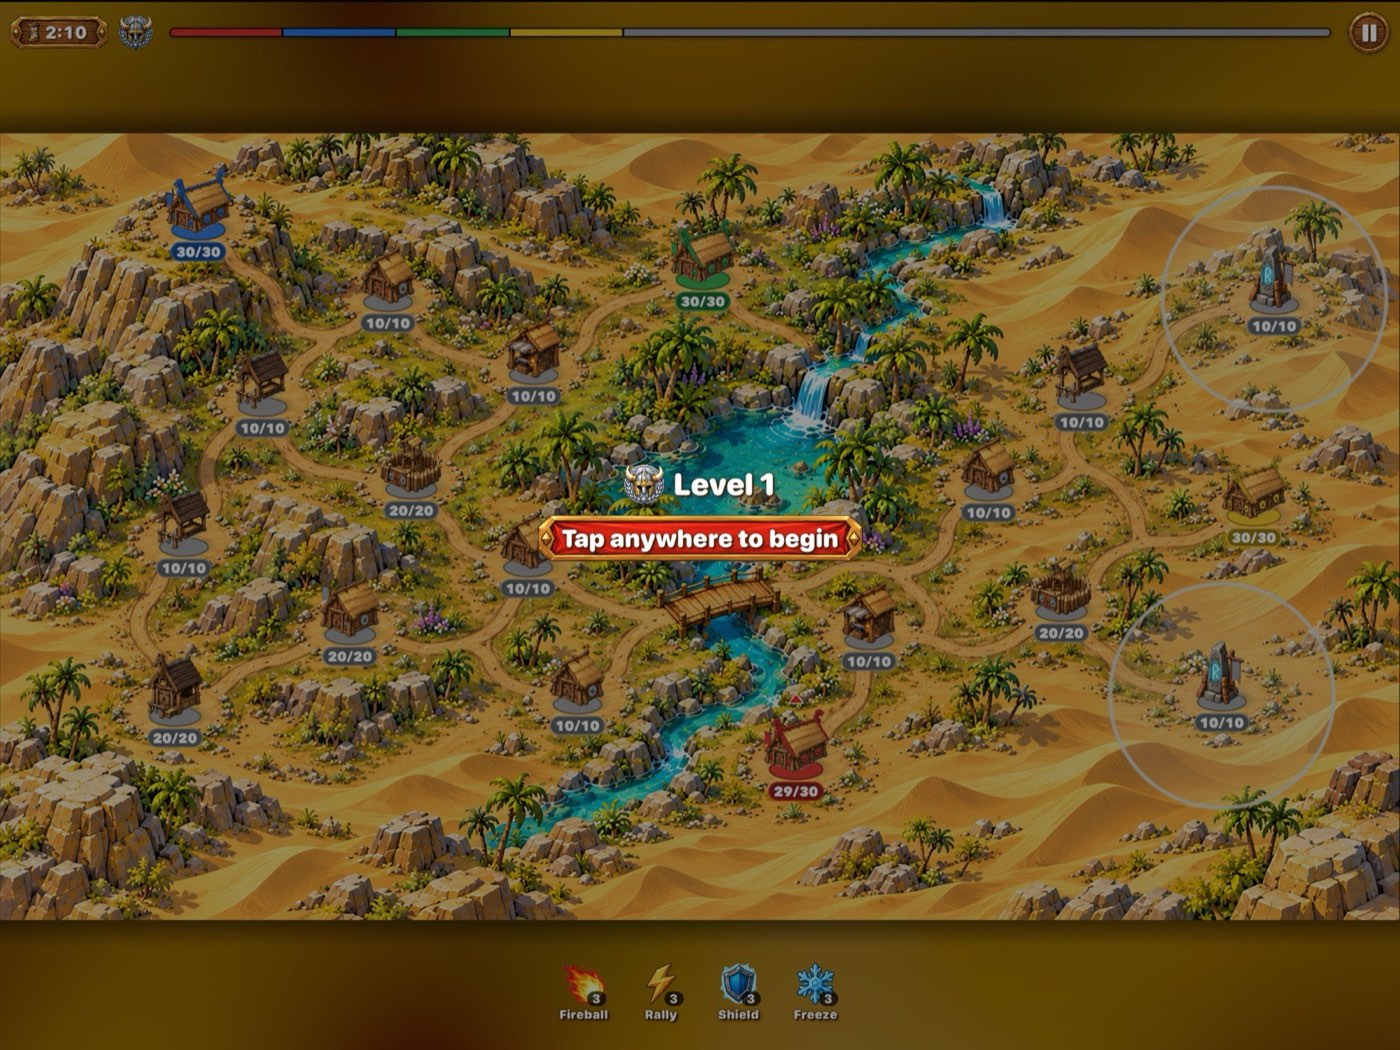
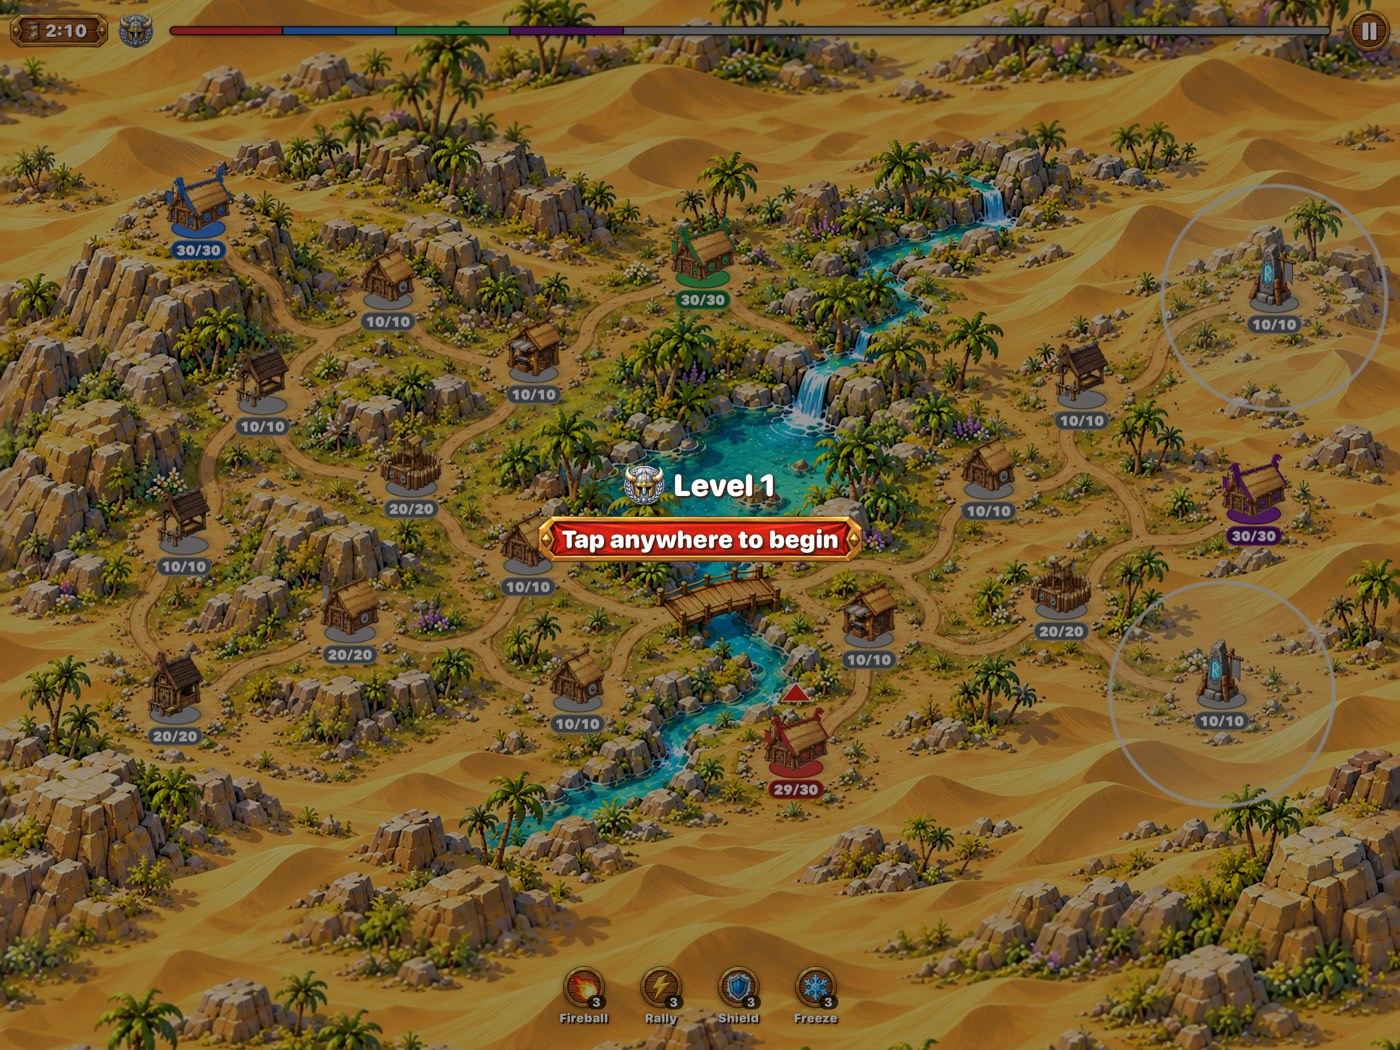
New edge-to-edge battle screenshots; purple replaces yellow
Emberpeak 8, Greenwood 9, and Sunscorch 1 retaken on the iPad Pro 13 simulator and
Coral 6 on the iPhone 17 Pro Max simulator, showing the outpainted maps that fill the
screen and the purple rival. Rival colors in the game page and How to Play now say purple.

diff --git a/pages/rally-the-realm/index.html b/pages/rally-the-realm/index.html
@@ -18,7 +18,7 @@ layout: rtr
         <div>
           <h2>Tap. Send. Conquer.</h2>
           <p>Every level is a hand-painted map dotted with buildings and joined by winding roads. Your buildings are red. Each one grows little Vikings. Tap one of yours, tap a target, and half your troops march out to take it.</p>
-          <p>Three rival clans, blue, green, and yellow, want the same land. Capture their buildings, defend your own, and be the last clan standing. Battles take a few minutes, so there is always time for one more.</p>
+          <p>Three rival clans, blue, green, and purple, want the same land. Capture their buildings, defend your own, and be the last clan standing. Battles take a few minutes, so there is always time for one more.</p>
         </div>
         <img class="mascot" src="/assets/img/rtr/ui/mascot_cheer.png" alt="A cheering red Viking with a flag" width="180" height="251">
       </div>
@@ -41,12 +41,12 @@ layout: rtr
   <div class="rtr-wrap">
     <h2>See it in action</h2>
     <div class="shots">
-      <figure class="wide"><div class="frame"><img src="/assets/img/rtr/shots/battle_ember.jpg" alt="A battle on Emberpeak, a volcanic world, with red, blue, green, and yellow buildings" loading="lazy" width="1400" height="1050"></div><figcaption>Fight across lava and stone bridges in Emberpeak.</figcaption></figure>
+      <figure class="wide"><div class="frame"><img src="/assets/img/rtr/shots/battle_ember.jpg" alt="A battle on Emberpeak, a volcanic world, with red, blue, green, and purple buildings" loading="lazy" width="1400" height="1050"></div><figcaption>Fight across lava and stone bridges in Emberpeak.</figcaption></figure>
       <figure><div class="frame"><img src="/assets/img/rtr/shots/worldmap.jpg" alt="The Greenwood world map with nine level tiles" loading="lazy" width="1400" height="1050"></div><figcaption>Nine levels in every world, one star per rank.</figcaption></figure>
       <figure><div class="frame"><img src="/assets/img/rtr/shots/battle_g9.jpg" alt="A forest battle in Greenwood with rune towers and their range circles" loading="lazy" width="1400" height="1050"></div><figcaption>Rune towers shoot any enemy in their circle.</figcaption></figure>
       <figure><div class="frame"><img src="/assets/img/rtr/shots/trophies.jpg" alt="The Trophy Hall with locked trophies" loading="lazy" width="1400" height="1050"></div><figcaption>33 trophies to earn.</figcaption></figure>
       <figure><div class="frame"><img src="/assets/img/rtr/shots/store.jpg" alt="The store with upgrades and spell refills priced in gold" loading="lazy" width="1400" height="1050"></div><figcaption>Spend the gold you win on upgrades and spells.</figcaption></figure>
-      <figure class="wide"><div class="frame"><img src="/assets/img/rtr/shots/iphone_battle.jpg" alt="A battle on Coral Isles on iPhone" loading="lazy" width="1400" height="646"></div><figcaption>Made for iPad, plays great on iPhone too.</figcaption></figure>
+      <figure class="wide"><div class="frame"><img src="/assets/img/rtr/shots/iphone_battle.jpg" alt="A battle on Coral Isles on iPhone" loading="lazy" width="1400" height="644"></div><figcaption>Made for iPad, plays great on iPhone too.</figcaption></figure>
       <figure><div class="frame"><img src="/assets/img/rtr/shots/sunscorch_01.jpg" alt="Sunscorch Dunes level 1 waiting for a tap to begin" loading="lazy" width="1400" height="1050"></div><figcaption>Every level waits for your tap to begin.</figcaption></figure>
     </div>
   </div>

diff --git a/docs/rally-the-realm/index.html b/docs/rally-the-realm/index.html
@@ -48,7 +48,7 @@
         <div>
           <h2>Tap. Send. Conquer.</h2>
           <p>Every level is a hand-painted map dotted with buildings and joined by winding roads. Your buildings are red. Each one grows little Vikings. Tap one of yours, tap a target, and half your troops march out to take it.</p>
-          <p>Three rival clans, blue, green, and yellow, want the same land. Capture their buildings, defend your own, and be the last clan standing. Battles take a few minutes, so there is always time for one more.</p>
+          <p>Three rival clans, blue, green, and purple, want the same land. Capture their buildings, defend your own, and be the last clan standing. Battles take a few minutes, so there is always time for one more.</p>
         </div>
         <img class="mascot" src="/assets/img/rtr/ui/mascot_cheer.png" alt="A cheering red Viking with a flag" width="180" height="251">
       </div>
@@ -71,12 +71,12 @@
   <div class="rtr-wrap">
     <h2>See it in action</h2>
     <div class="shots">
-      <figure class="wide"><div class="frame"><img src="/assets/img/rtr/shots/battle_ember.jpg" alt="A battle on Emberpeak, a volcanic world, with red, blue, green, and yellow buildings" loading="lazy" width="1400" height="1050"></div><figcaption>Fight across lava and stone bridges in Emberpeak.</figcaption></figure>
+      <figure class="wide"><div class="frame"><img src="/assets/img/rtr/shots/battle_ember.jpg" alt="A battle on Emberpeak, a volcanic world, with red, blue, green, and purple buildings" loading="lazy" width="1400" height="1050"></div><figcaption>Fight across lava and stone bridges in Emberpeak.</figcaption></figure>
       <figure><div class="frame"><img src="/assets/img/rtr/shots/worldmap.jpg" alt="The Greenwood world map with nine level tiles" loading="lazy" width="1400" height="1050"></div><figcaption>Nine levels in every world, one star per rank.</figcaption></figure>
       <figure><div class="frame"><img src="/assets/img/rtr/shots/battle_g9.jpg" alt="A forest battle in Greenwood with rune towers and their range circles" loading="lazy" width="1400" height="1050"></div><figcaption>Rune towers shoot any enemy in their circle.</figcaption></figure>
       <figure><div class="frame"><img src="/assets/img/rtr/shots/trophies.jpg" alt="The Trophy Hall with locked trophies" loading="lazy" width="1400" height="1050"></div><figcaption>33 trophies to earn.</figcaption></figure>
       <figure><div class="frame"><img src="/assets/img/rtr/shots/store.jpg" alt="The store with upgrades and spell refills priced in gold" loading="lazy" width="1400" height="1050"></div><figcaption>Spend the gold you win on upgrades and spells.</figcaption></figure>
-      <figure class="wide"><div class="frame"><img src="/assets/img/rtr/shots/iphone_battle.jpg" alt="A battle on Coral Isles on iPhone" loading="lazy" width="1400" height="646"></div><figcaption>Made for iPad, plays great on iPhone too.</figcaption></figure>
+      <figure class="wide"><div class="frame"><img src="/assets/img/rtr/shots/iphone_battle.jpg" alt="A battle on Coral Isles on iPhone" loading="lazy" width="1400" height="644"></div><figcaption>Made for iPad, plays great on iPhone too.</figcaption></figure>
       <figure><div class="frame"><img src="/assets/img/rtr/shots/sunscorch_01.jpg" alt="Sunscorch Dunes level 1 waiting for a tap to begin" loading="lazy" width="1400" height="1050"></div><figcaption>Every level waits for your tap to begin.</figcaption></figure>
     </div>
   </div>

diff --git a/pages/rally-the-realm/guide/how-to-play.html b/pages/rally-the-realm/guide/how-to-play.html
@@ -9,7 +9,7 @@ layout: rtr
   </div>
   <div class="panel">
     <h2>The goal</h2>
-    <p>You are red. Up to three rival clans, blue, green, and yellow, share the map with you, along with gray buildings that belong to nobody. Take buildings, grow your army, and knock every rival out. A rival is out when it has no buildings left <em>and</em> no troops still marching. Gray buildings can stay gray; you do not need them to win.</p>
+    <p>You are red. Up to three rival clans, blue, green, and purple, share the map with you, along with gray buildings that belong to nobody. Take buildings, grow your army, and knock every rival out. A rival is out when it has no buildings left <em>and</em> no troops still marching. Gray buildings can stay gray; you do not need them to win.</p>
     <p>Each level starts with the whole map dimmed and the words &ldquo;Tap anywhere to begin&rdquo;. Take a look around, plan your first move, then tap to start.</p>
   </div>
   <div class="panel">

diff --git a/docs/rally-the-realm/guide/how-to-play/index.html b/docs/rally-the-realm/guide/how-to-play/index.html
@@ -39,7 +39,7 @@
   </div>
   <div class="panel">
     <h2>The goal</h2>
-    <p>You are red. Up to three rival clans, blue, green, and yellow, share the map with you, along with gray buildings that belong to nobody. Take buildings, grow your army, and knock every rival out. A rival is out when it has no buildings left <em>and</em> no troops still marching. Gray buildings can stay gray; you do not need them to win.</p>
+    <p>You are red. Up to three rival clans, blue, green, and purple, share the map with you, along with gray buildings that belong to nobody. Take buildings, grow your army, and knock every rival out. A rival is out when it has no buildings left <em>and</em> no troops still marching. Gray buildings can stay gray; you do not need them to win.</p>
     <p>Each level starts with the whole map dimmed and the words &ldquo;Tap anywhere to begin&rdquo;. Take a look around, plan your first move, then tap to start.</p>
   </div>
   <div class="panel">
